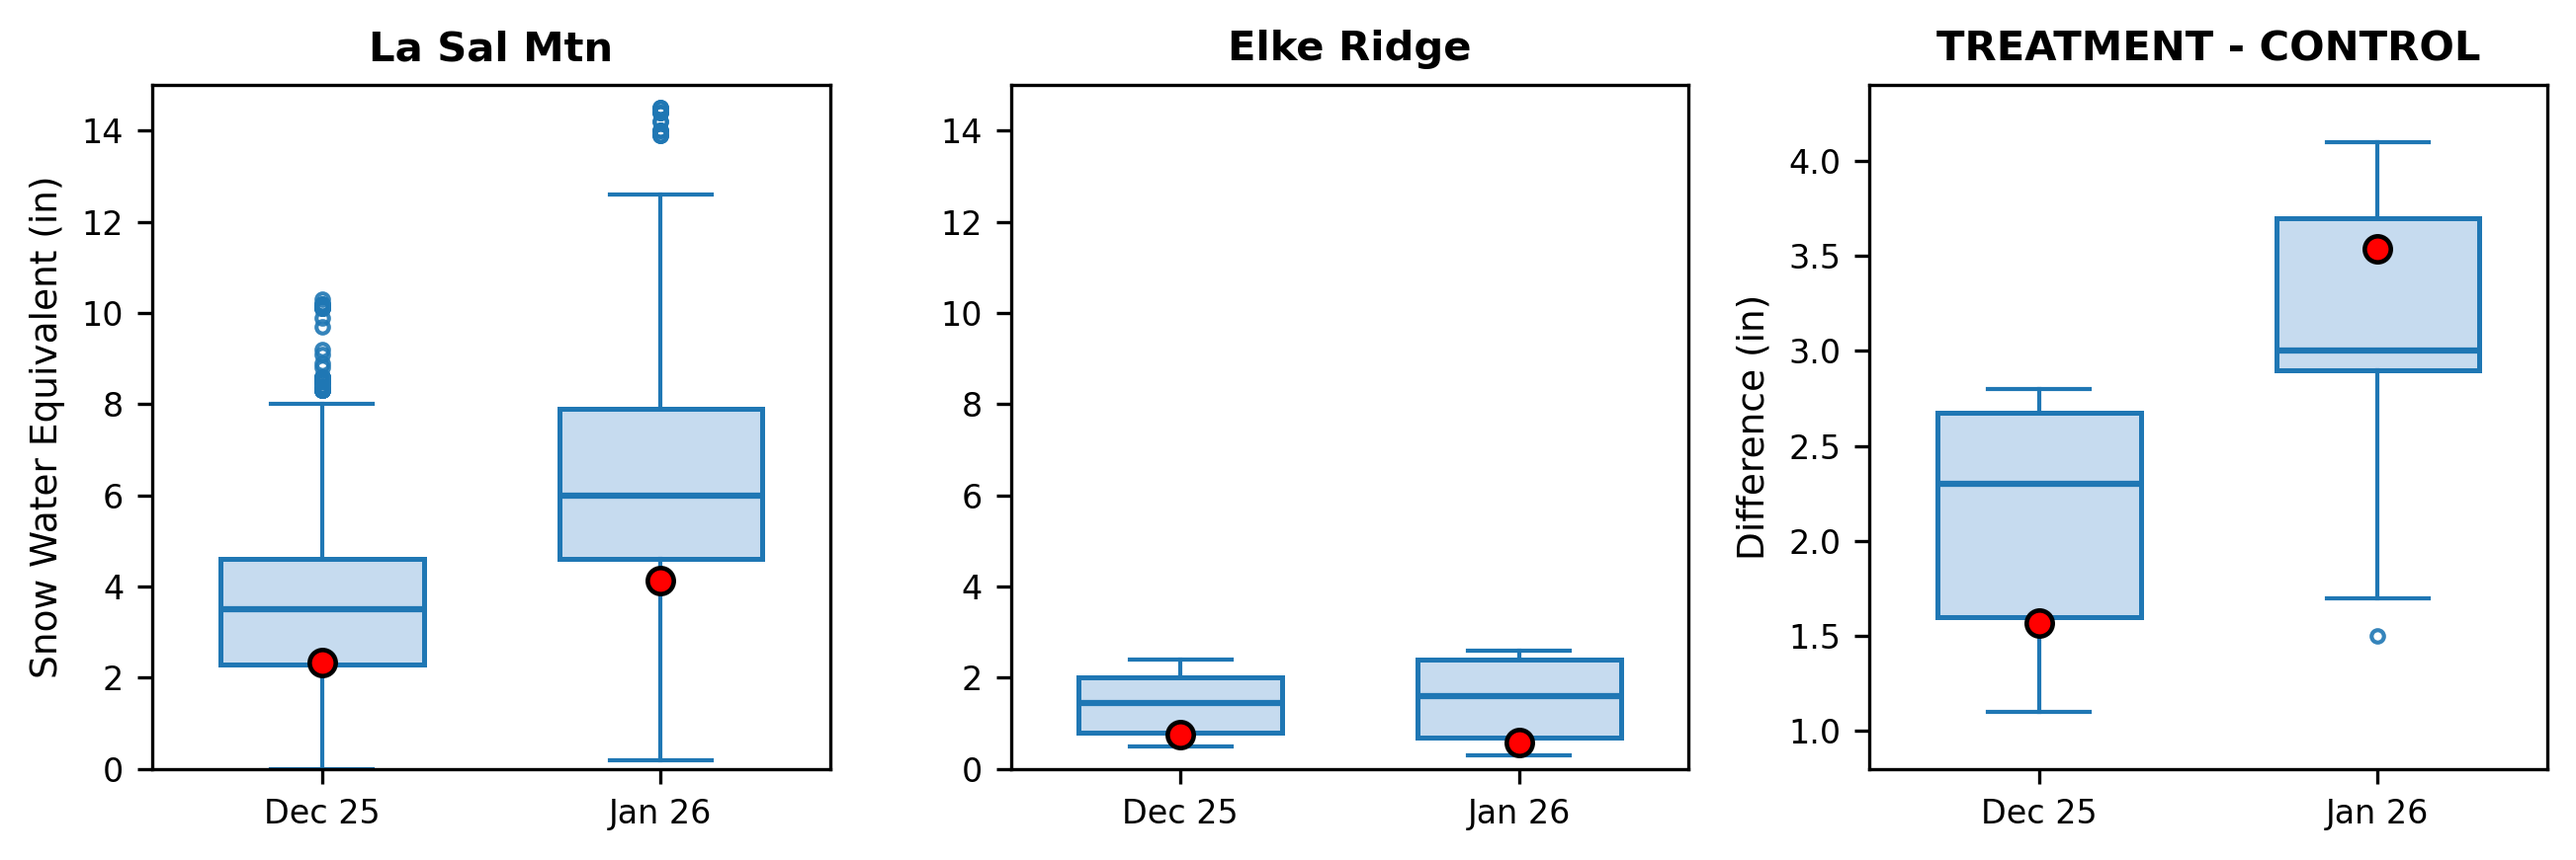
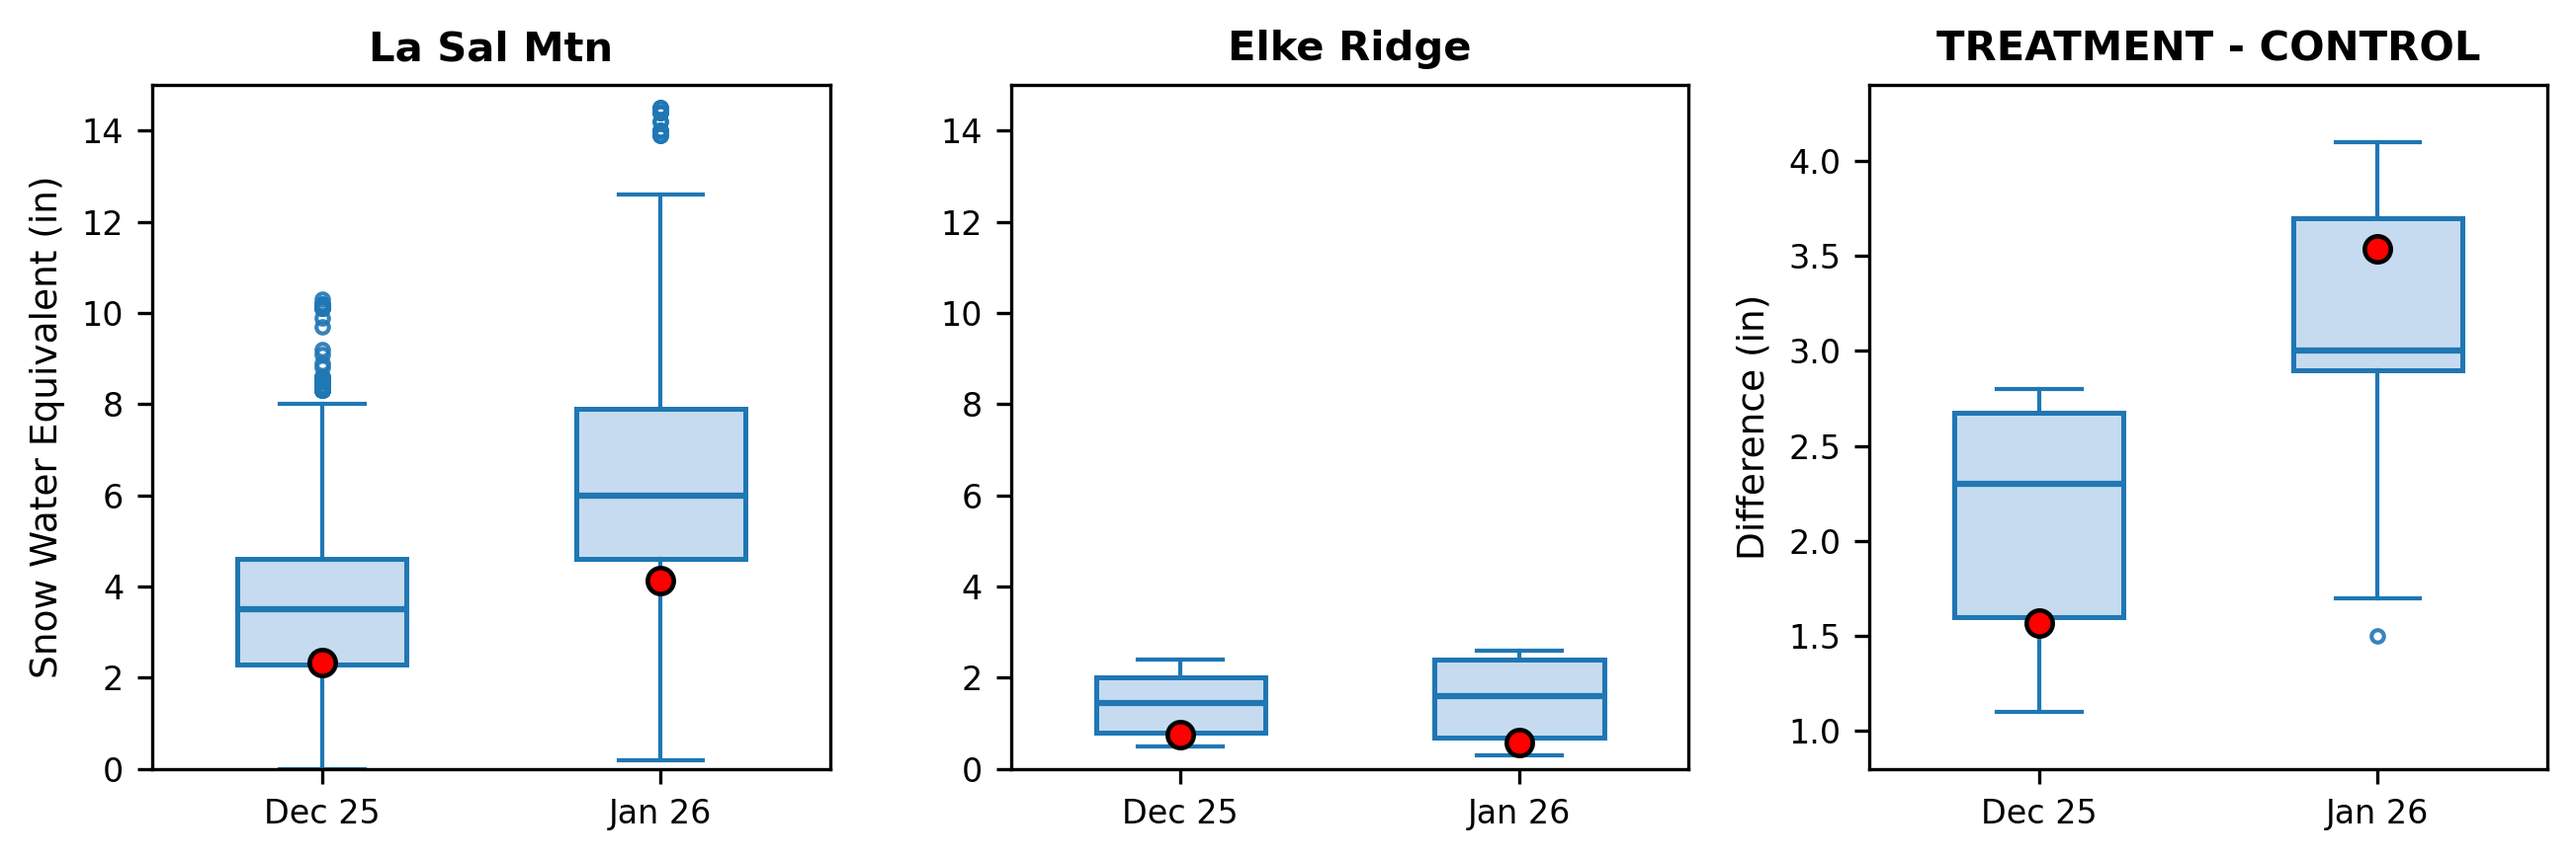
Rename La Sal Mtn to La Sal Mtn Upper in text; slightly reduce boxplot widths
Made-with: Cursor

diff --git a/scripts/plot_generators.py b/scripts/plot_generators.py
@@ -421,7 +421,7 @@ def plot_snow_depth_boxplots(treatment_station, control_station, month, year,
 
     bp1 = ax1.boxplot(
         treatment_groups, labels=labels,
-        showfliers=True, patch_artist=True, widths=0.6
+        showfliers=True, patch_artist=True, widths=0.5
     )
     style_boxplot(bp1)
     ax1.set_title(f"{treatment_station}", fontsize=10, fontweight='bold')
@@ -431,7 +431,7 @@ def plot_snow_depth_boxplots(treatment_station, control_station, month, year,
 
     bp2 = ax2.boxplot(
         control_groups, labels=labels,
-        showfliers=True, patch_artist=True, widths=0.6
+        showfliers=True, patch_artist=True, widths=0.5
     )
     style_boxplot(bp2)
     ax2.set_title(f"{control_station}", fontsize=10, fontweight='bold')
@@ -440,7 +440,7 @@ def plot_snow_depth_boxplots(treatment_station, control_station, month, year,
 
     bp3 = ax3.boxplot(
         diff_groups, labels=labels,
-        showfliers=True, patch_artist=True, widths=0.6
+        showfliers=True, patch_artist=True, widths=0.5
     )
     style_boxplot(bp3)
     ax3.set_title(f"TREATMENT - CONTROL", fontsize=10, fontweight='bold')

diff --git a/main.tex b/main.tex
@@ -341,7 +341,7 @@ Hourly \\
 \hline
 
 SNOTEL &
-Gold Basin, UT (1304); La Sal Mtn, UT (572); La Sal Mtn Lower, UT (1215); Buckboard Flat, UT (1153); Camp Jackson, UT (383) &
+Gold Basin, UT (1304); La Sal Mtn Upper, UT (572); La Sal Mtn Lower, UT (1215); Buckboard Flat, UT (1153); Camp Jackson, UT (383) &
 Snow / water equivalent monitoring &
 Daily \\
 \hline

diff --git a/scripts/update_latex.py b/scripts/update_latex.py
@@ -118,7 +118,7 @@ def update_latex_plots(month, year, main_tex_path=None, snowdepth_plot=None):
     
     if boxplot_path.exists():
         # Create LaTeX code for only this boxplot
-        treatment = "La Sal Mtn"
+        treatment = "La Sal Mtn Upper"
         control = "Camp jackson"
         
         figure_code = (r'\begin{figure}[h!]' + '\n' +

diff --git a/README.md b/README.md
@@ -97,7 +97,7 @@ Update `main.tex` to reference these plots (or use the update script - see below
 ## Station Configuration
 
 Edit `scripts/config.py` to configure:
-- Treatment stations (La Sal Mtn, Lasal Mtn lower, Gold Basin)
+- Treatment stations (La Sal Mtn Upper, Lasal Mtn lower, Gold Basin)
 - Control stations (Camp jackson, Buckboard Flat, Elke Ridge)
 - Station name mappings (PDF filename -> standardized name)
 

diff --git a/AUTOMATION_SUMMARY.md b/AUTOMATION_SUMMARY.md
@@ -16,7 +16,7 @@ RET_Operation_Report/
 ### 2. Core Scripts
 
 #### `scripts/config.py`
-- Station mappings (treatment vs control)
+- Station mappings (treatment vs control; e.g., La Sal Mtn Upper vs control sites)
 - Path configurations
 - Plot settings
 
@@ -88,7 +88,7 @@ This will:
 ## Station Configuration
 
 Treatment stations (from config.py):
-- La Sal Mtn
+- La Sal Mtn Upper
 - Lasal Mtn lower
 - Gold Basin
 

diff --git a/QUICKSTART.md b/QUICKSTART.md
@@ -13,7 +13,7 @@ cd scripts
 python pdf_to_csv.py
 ```
 
-This will convert all PDF station files (La Sal Mtn, Camp Jackson, etc.) to CSV format in `data/csv/`.
+This will convert all PDF station files (La Sal Mtn Upper, Camp Jackson, etc.) to CSV format in `data/csv/`.
 
 ## Generate Report for a Month
 
